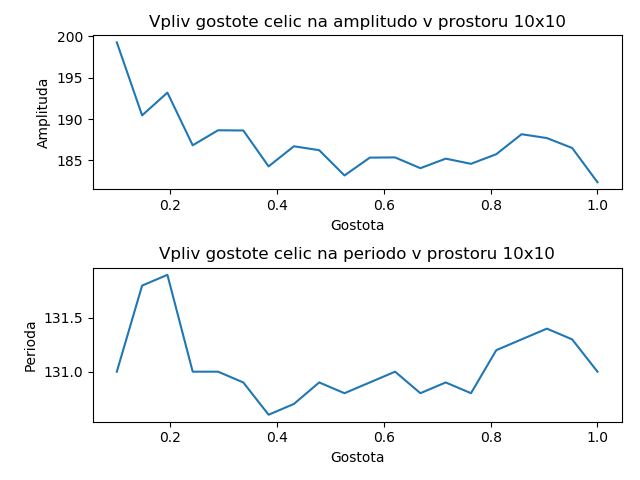
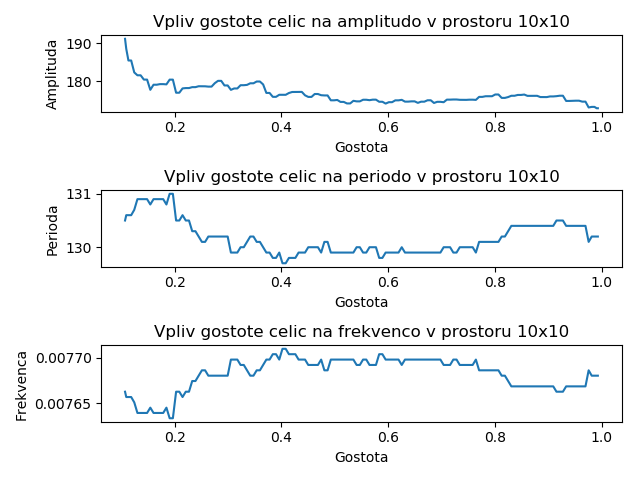
dodana frekvenca

diff --git a/Seminar 2/analisys-1.py b/Seminar 2/analisys-1.py
@@ -1,5 +1,7 @@
 import numpy as np
 import matplotlib.pyplot as plt
+from scipy.interpolate import spline
+from scipy.ndimage.filters import gaussian_filter1d
 
 import represilator as r
 
@@ -23,13 +25,15 @@ def analyse_diffusion_rate_and_density(size, number_of_examples=150):
     for d in np.linspace(start=.01, stop=3, num=number_of_examples):
         for density in np.linspace(start=.1, stop=1, num=5):
             rep = r.Repressilator_S_PDE()
-            rep.load_params()
             rep.set_params(D1=d, density=density, size=size)
             # check if model oscillates
-            oscillates = rep.run()[0]
-            print("#%d | d: %f, density: %f, oscillates: %d" % (example_num, d, density, oscillates))
+            [osc, freq, period, amplitude, damped] = rep.run()
+            print("#%d | density: %f, | oscillates: %d, frequency: %f, period: %f, amplitude: %f" % (
+                example_num, density, osc, freq, period, amplitude))
+
             example_num += 1
-            if oscillates:
+            del rep
+            if osc:
                 x.append(d)
                 y.append(density)
             else:
@@ -39,7 +43,7 @@ def analyse_diffusion_rate_and_density(size, number_of_examples=150):
     print(x)
     print(y)
     plt.title('Vpliv hitrosti difuzije na oscilacije v prostoru %dx%d' % (size, size))
-    plt.plot(x, y, 'ro')
+    plt.plot(x, y)
     plt.ylabel('Gostota')
     plt.xlabel('Hitrost difuzije')
     plt.show()
@@ -114,6 +118,9 @@ def analyse_density(size=10, number_of_examples=150):
     x_amp = []
     y_amp = []
 
+    x_freq = []
+    y_freq = []
+
     for density in np.linspace(start=.1, stop=1, num=number_of_examples):
         rep = r.Repressilator_S_PDE()
         rep.set_params(density=density, size=size)
@@ -130,32 +137,46 @@ def analyse_density(size=10, number_of_examples=150):
             x_amp.append(amplitude)
             y_amp.append(density)
 
+            x_freq.append(freq)
+            y_freq.append(density)
+
         example_num += 1
         del rep
 
-    plt.subplot(2, 1, 1)
+    plt.subplot(3, 1, 1)
     plt.title('Vpliv gostote celic na amplitudo v prostoru %dx%d' % (size, size))
-    plt.plot(y_amp, x_amp)
+    # x_smooth = np.linspace(np.array(x_amp).max(), np.array(x_amp).min(), number_of_examples)
+    # y_smooth = spline(x_amp, y_amp, x_smooth)
+    y_smooth = gaussian_filter1d(y_amp, sigma=2)
+    plt.plot(y_smooth, x_amp)
     plt.ylabel('Amplituda')
     plt.xlabel('Gostota')
 
-    plt.subplot(2, 1, 2)
+    plt.subplot(3, 1, 2)
     plt.title('Vpliv gostote celic na periodo v prostoru %dx%d' % (size, size))
-    plt.plot(y_per, x_per)
+    y_smooth = gaussian_filter1d(y_per, sigma=2)
+    plt.plot(y_smooth, x_per)
     plt.ylabel('Perioda')
+    plt.xlabel('Gostota')
+
+    plt.subplot(3, 1, 3)
+    plt.title('Vpliv gostote celic na frekvenco v prostoru %dx%d' % (size, size))
+    y_smooth = gaussian_filter1d(y_freq, sigma=2)
+    plt.plot(y_smooth, x_freq)
+    plt.ylabel('Frekvenca')
     plt.xlabel('Gostota')
     plt.show()
 
 
 if __name__ == "__main__":
-    # analyse_diffusion_rate_and_density(15)
+    analyse_diffusion_rate_and_density(size=10, number_of_examples=5)
 
     # Vpliv hitrosti difuzije na oscilacije pri podani velikosti prostora
-    analyse_diffusion_rate(number_of_examples=20, size=10)
-    analyse_diffusion_rate(number_of_examples=20, size=15)
-    analyse_diffusion_rate(number_of_examples=20, size=20)
+    # analyse_diffusion_rate(number_of_examples=10, size=10)
+    # analyse_diffusion_rate(number_of_examples=20, size=15)
+    # analyse_diffusion_rate(number_of_examples=20, size=20)
 
     # Vpliv gostote celic na oscilacije pri podani velikosti prostora
-    analyse_density(number_of_examples=20, size=10)
-    analyse_density(number_of_examples=20, size=15)
-    analyse_density(number_of_examples=20, size=20)
+    # analyse_density(number_of_examples=150, size=10)
+    # analyse_density(number_of_examples=150, size=15)
+    # analyse_density(number_of_examples=150, size=20)

diff --git a/Seminar 2/represilator.py b/Seminar 2/represilator.py
@@ -55,7 +55,7 @@ class Repressilator_S_PDE:
         self.S_e = 0
         self.S_i = 0
         # time parameters
-        self.t_end = 10000
+        self.t_end = 5000
         self.t_start = START_TIME
 
     def load_params(self, file_name="params.yaml"):
